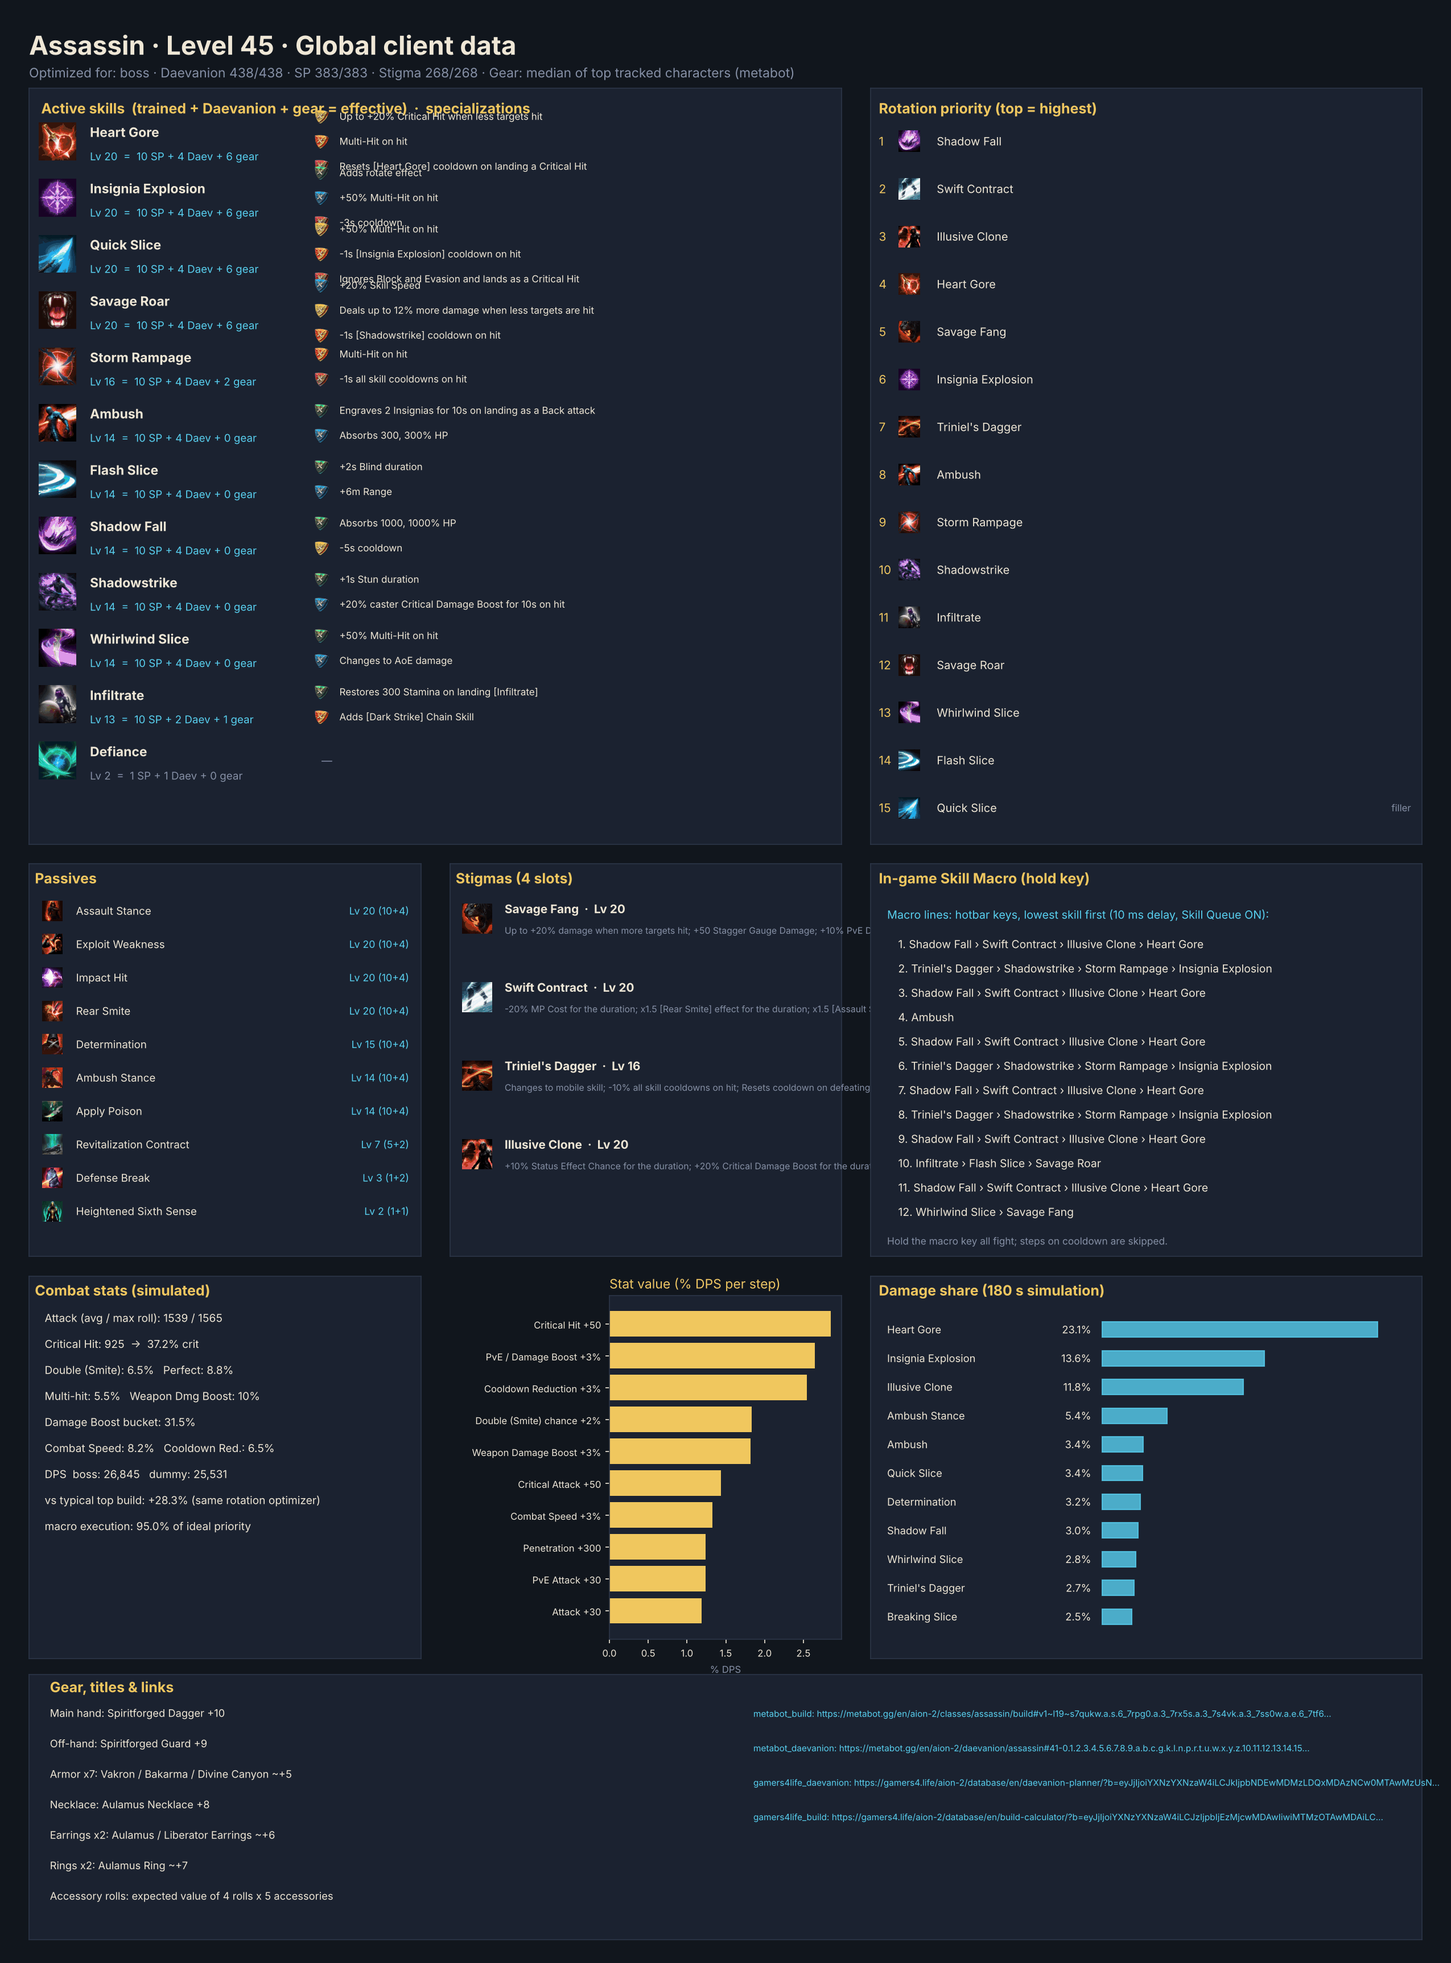
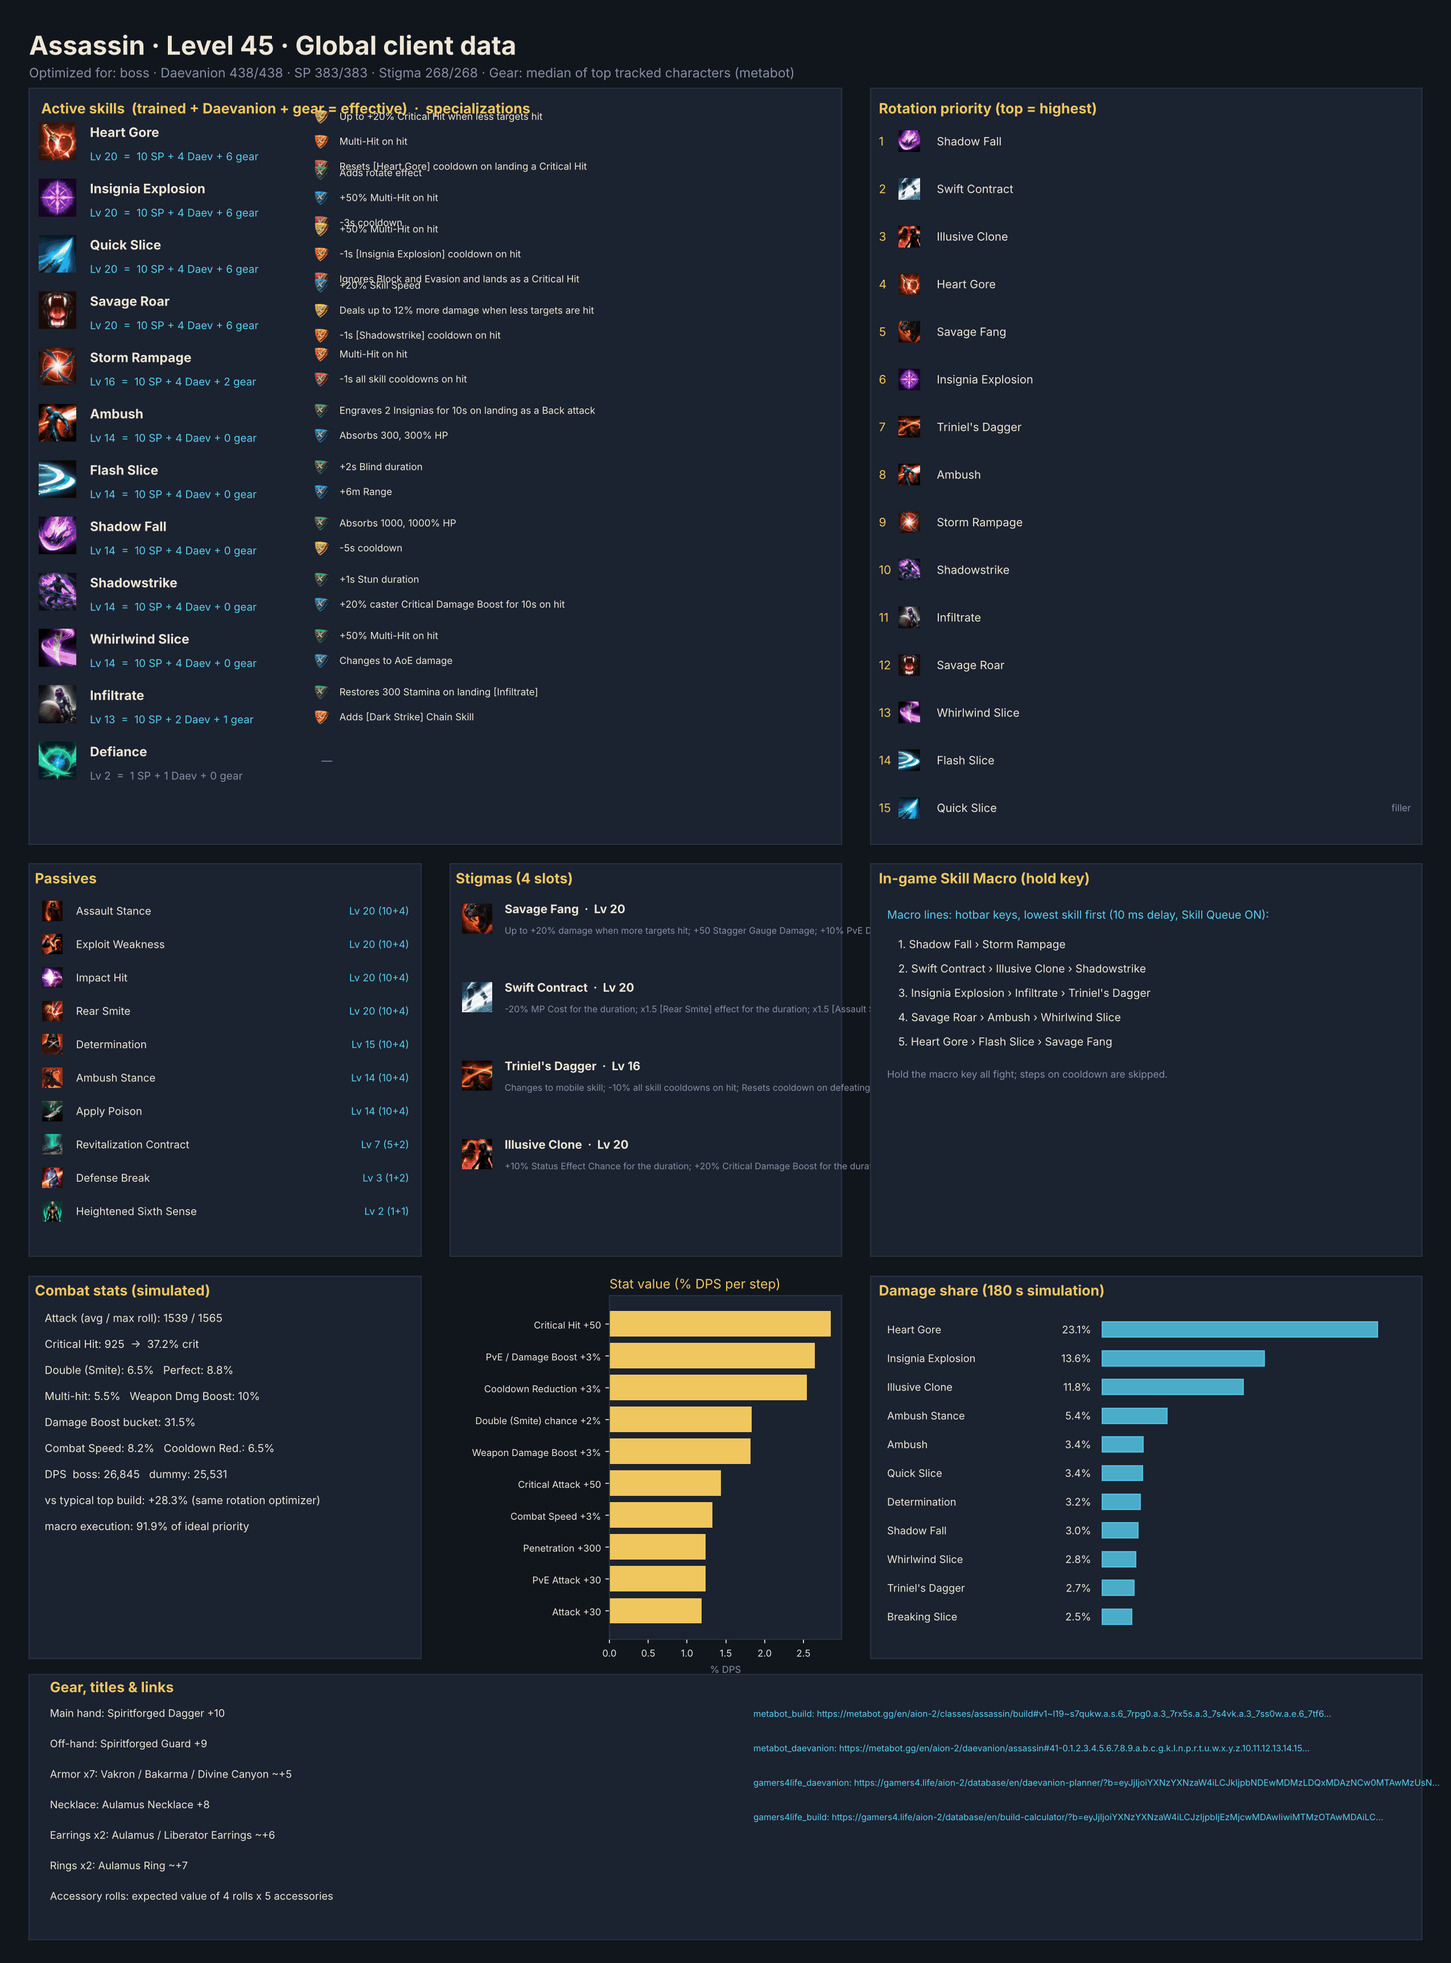
Bundled builds: macros planned again with each key on one line (Assassin to Templar)
`python -m aion2calc render` re-plans a saved macro of an older model: the Assassin's,
Chanter's, Cleric's, Gladiator's, Ranger's and Templar's PvE presets now have each hotbar key on
one macro line. Only their macro sections and build cards change (the README roll lists keep
Block out). The PvP presets store no macro and are left as they are.

Claude-Session: https://claude.ai/code/session_01AC4afGrRJWCPN4E49PZ7UU

Changed region(s): [[0.6196, 0.4652, 0.8365, 0.6203], [0.031, 0.2481, 0.062, 0.2791]]

diff --git a/results/compare/assassin/README.md b/results/compare/assassin/README.md
@@ -50,28 +50,21 @@ Use the highest skill that is ready; the last entry is the filler.
 
 **Left mouse button** is the basic auto-attack: `quick_slice`. Hold it for continuous attacks; the Skill Macro below goes on the **right mouse button** (or another held key). Weave both together.
 
-Each line is a hotbar key: put its skills on that key in the order listed, the first lowest (a key holds up to four). The macro casts a key's skills from first to last, skipping any that cannot be cast, then moves to the next line. Then Settings → Key Settings → General → Skill Macro: add the keys as macro lines from top to bottom, a key listed twice added twice. Skill Queue (스킬 예약) **ON**, 10 ms delay on every line, hold the macro key; manual presses always take priority over the macro. A skill's key presses its chain step while the chain is open, in the macro too.
+Each line is a hotbar key: put its skills on that key in the order listed, the first lowest (a key holds up to four). The macro casts a key's skills from first to last, skipping any that cannot be cast, then moves to the next line. Then Settings → Key Settings → General → Skill Macro: add the keys as macro lines from top to bottom, each once: held, the macro cycles through them. Skill Queue (스킬 예약) **ON**, 10 ms delay on every line, hold the macro key; manual presses always take priority over the macro. A skill's key presses its chain step while the chain is open, in the macro too.
 
 | Line | Hotbar key holds (cast in this order) |
 |---:|---|
-| 1 | shadow_fall › swift › illusive_clone › heart_gore |
-| 2 | triniel › shadowstrike › storm_rampage › insignia_explosion |
-| 3 | shadow_fall › swift › illusive_clone › heart_gore |
-| 4 | ambush |
-| 5 | shadow_fall › swift › illusive_clone › heart_gore |
-| 6 | triniel › shadowstrike › storm_rampage › insignia_explosion |
-| 7 | shadow_fall › swift › illusive_clone › heart_gore |
-| 8 | triniel › shadowstrike › storm_rampage › insignia_explosion |
-| 9 | shadow_fall › swift › illusive_clone › heart_gore |
-| 10 | infiltrate › flash_slice › savage_roar |
-| 11 | shadow_fall › swift › illusive_clone › heart_gore |
-| 12 | whirlwind_slice › sfang |
+| 1 | shadow_fall › storm_rampage |
+| 2 | swift › illusive_clone › shadowstrike |
+| 3 | insignia_explosion › infiltrate › triniel |
+| 4 | savage_roar › ambush › whirlwind_slice |
+| 5 | heart_gore › flash_slice › sfang |
 
 Manual keys (press on cooldown, in this priority): none — hold the macro key for the whole fight
 
-Simulated: this layout reaches **95.0%** of the ideal priority list.
+Simulated: this layout reaches **91.9%** of the ideal priority list.
 
-**Alternative — one skill per macro line**: macro shadow_fall → heart_gore → insignia_explosion → ambush → storm_rampage → shadowstrike → infiltrate → savage_roar → whirlwind_slice → flash_slice → quick_slice; manual: swift, illusive_clone, sfang, triniel. Simulated: **81.3%** of the ideal priority list.
+**Alternative — one skill per macro line**: macro shadow_fall → heart_gore → insignia_explosion → ambush → storm_rampage → shadowstrike → infiltrate → savage_roar → whirlwind_slice → flash_slice → quick_slice; manual: swift, illusive_clone, sfang, triniel. Simulated: **81.6%** of the ideal priority list.
 
 ### Opener (first 30 s of the simulated fight)
 

diff --git a/results/compare/chanter/README.md b/results/compare/chanter/README.md
@@ -48,25 +48,17 @@ Use the highest skill that is ready; the last entry is the filler.
 
 **Left mouse button** is the basic auto-attack: `onslaught`. Hold it for continuous attacks; the Skill Macro below goes on the **right mouse button** (or another held key). Weave both together.
 
-Each line is a hotbar key: put its skills on that key in the order listed, the first lowest (a key holds up to four). The macro casts a key's skills from first to last, skipping any that cannot be cast, then moves to the next line. Then Settings → Key Settings → General → Skill Macro: add the keys as macro lines from top to bottom, a key listed twice added twice. Skill Queue (스킬 예약) **ON**, 10 ms delay on every line, hold the macro key; manual presses always take priority over the macro. A skill's key presses its chain step while the chain is open, in the macro too.
+Each line is a hotbar key: put its skills on that key in the order listed, the first lowest (a key holds up to four). The macro casts a key's skills from first to last, skipping any that cannot be cast, then moves to the next line. Then Settings → Key Settings → General → Skill Macro: add the keys as macro lines from top to bottom, each once: held, the macro cycles through them. Skill Queue (스킬 예약) **ON**, 10 ms delay on every line, hold the macro key; manual presses always take priority over the macro. A skill's key presses its chain step while the chain is open, in the macro too.
 
 | Line | Hotbar key holds (cast in this order) |
 |---:|---|
-| 1 | undefeated › spinning_strike › marchutan › dark_crush |
-| 2 | stormpower › impactful_crush |
-| 3 | undefeated › spinning_strike › marchutan › dark_crush |
-| 4 | incandescent_blow › wave_blow › gust_rampage |
-| 5 | rushing_smash |
-| 6 | tremor_crush › heat_wave_blow |
-| 7 | undefeated › spinning_strike › marchutan › dark_crush |
-| 8 | stormpower › impactful_crush |
-| 9 | undefeated › spinning_strike › marchutan › dark_crush |
-| 10 | stormpower › impactful_crush |
-| 11 | rushing_smash |
+| 1 | undefeated › stormpower › spinning_strike › marchutan |
+| 2 | gust_rampage › dark_crush › heat_wave_blow › rushing_smash |
+| 3 | incandescent_blow › impactful_crush › wave_blow › tremor_crush |
 
 Manual keys (press on cooldown, in this priority): none — hold the macro key for the whole fight
 
-Simulated: this layout reaches **85.5%** of the ideal priority list.
+Simulated: this layout reaches **78.4%** of the ideal priority list.
 
 **Alternative — one skill per macro line**: macro impactful_crush → wave_blow → rushing_smash → tremor_crush → gust_rampage → heat_wave_blow → onslaught; manual: undefeated, dark_crush, stormpower, spinning_strike, marchutan, incandescent_blow. Simulated: **94.4%** of the ideal priority list.
 

diff --git a/results/compare/gladiator/README.md b/results/compare/gladiator/README.md
@@ -51,22 +51,18 @@ Use the highest skill that is ready; the last entry is the filler.
 
 **Left mouse button** is the basic auto-attack: `keen_strike`. Hold it for continuous attacks; the Skill Macro below goes on the **right mouse button** (or another held key). Weave both together.
 
-Each line is a hotbar key: put its skills on that key in the order listed, the first lowest (a key holds up to four). The macro casts a key's skills from first to last, skipping any that cannot be cast, then moves to the next line. Then Settings → Key Settings → General → Skill Macro: add the keys as macro lines from top to bottom, a key listed twice added twice. Skill Queue (스킬 예약) **ON**, 10 ms delay on every line, hold the macro key; manual presses always take priority over the macro. A skill's key presses its chain step while the chain is open, in the macro too.
+Each line is a hotbar key: put its skills on that key in the order listed, the first lowest (a key holds up to four). The macro casts a key's skills from first to last, skipping any that cannot be cast, then moves to the next line. Then Settings → Key Settings → General → Skill Macro: add the keys as macro lines from top to bottom, each once: held, the macro cycles through them. Skill Queue (스킬 예약) **ON**, 10 ms delay on every line, hold the macro key; manual presses always take priority over the macro. A skill's key presses its chain step while the chain is open, in the macro too.
 
 | Line | Hotbar key holds (cast in this order) |
 |---:|---|
-| 1 | sword_aura_rampage › mocking_blade |
-| 2 | lunge › rage › overhead_slam › leaping_slam |
-| 3 | rending_blow › zikel › ruinous_blow |
-| 4 | lunge › rage › overhead_slam › leaping_slam |
-| 5 | aerial_snare › crushing_wave |
-| 6 | sword_aura_rampage › mocking_blade |
-| 7 | lunge › rage › overhead_slam › leaping_slam |
-| 8 | rush_strike › ankle_slice › forcedrest |
+| 1 | rage › leaping_slam › aerial_snare › zikel |
+| 2 | rush_strike › lunge › overhead_slam › ruinous_blow |
+| 3 | ankle_slice › rending_blow |
+| 4 | mocking_blade › sword_aura_rampage › forcedrest › crushing_wave |
 
 Manual keys (press on cooldown, in this priority): none — hold the macro key for the whole fight
 
-Simulated: this layout reaches **90.8%** of the ideal priority list.
+Simulated: this layout reaches **83.0%** of the ideal priority list.
 
 **Alternative — one skill per macro line**: macro leaping_slam → rage → overhead_slam → aerial_snare → forcedrest → zikel → ruinous_blow → rush_strike → ankle_slice → lunge → mocking_blade → rending_blow → crushing_wave → keen_strike → sword_aura_rampage. Simulated: **70.9%** of the ideal priority list.
 

diff --git a/results/compare/templar/README.md b/results/compare/templar/README.md
@@ -50,20 +50,17 @@ Use the highest skill that is ready; the last entry is the filler.
 
 **Left mouse button** is the basic auto-attack: `vicious_strike`. Hold it for continuous attacks; the Skill Macro below goes on the **right mouse button** (or another held key). Weave both together.
 
-Each line is a hotbar key: put its skills on that key in the order listed, the first lowest (a key holds up to four). The macro casts a key's skills from first to last, skipping any that cannot be cast, then moves to the next line. Then Settings → Key Settings → General → Skill Macro: add the keys as macro lines from top to bottom, a key listed twice added twice. Skill Queue (스킬 예약) **ON**, 10 ms delay on every line, hold the macro key; manual presses always take priority over the macro. A skill's key presses its chain step while the chain is open, in the macro too.
+Each line is a hotbar key: put its skills on that key in the order listed, the first lowest (a key holds up to four). The macro casts a key's skills from first to last, skipping any that cannot be cast, then moves to the next line. Then Settings → Key Settings → General → Skill Macro: add the keys as macro lines from top to bottom, each once: held, the macro cycles through them. Skill Queue (스킬 예약) **ON**, 10 ms delay on every line, hold the macro key; manual presses always take priority over the macro. A skill's key presses its chain step while the chain is open, in the macro too.
 
 | Line | Hotbar key holds (cast in this order) |
 |---:|---|
-| 1 | judgment › taunt › noble |
-| 2 | elp › shield_rush › annihilate › warding_strike |
-| 3 | judgment › taunt › noble |
-| 4 | elp › shield_rush › annihilate › warding_strike |
-| 5 | judgment › taunt › noble |
-| 6 | poach › debilitating_smash › shield_smite › doom |
+| 1 | elp › noble › poach › taunt |
+| 2 | shield_smite › shield_rush › warding_strike |
+| 3 | judgment › debilitating_smash › annihilate › doom |
 
 Manual keys (press on cooldown, in this priority): punishment
 
-Simulated: this layout reaches **93.2%** of the ideal priority list.
+Simulated: this layout reaches **92.1%** of the ideal priority list.
 
 **Alternative — one skill per macro line**: macro shield_smite → annihilate → pummel → poach → debilitating_smash → vicious_strike; manual: noble, taunt, elp, judgment, punishment, shield_rush, doom, warding_strike. Simulated: **95.8%** of the ideal priority list.
 

diff --git a/results/compare/cleric/README.md b/results/compare/cleric/README.md
@@ -46,19 +46,17 @@ Use the highest skill that is ready; the last entry is the filler.
 
 **Left mouse button** is the basic auto-attack: `earths_retribution`. Hold it for continuous attacks; the Skill Macro below goes on the **right mouse button** (or another held key). Weave both together.
 
-Each line is a hotbar key: put its skills on that key in the order listed, the first lowest (a key holds up to four). The macro casts a key's skills from first to last, skipping any that cannot be cast, then moves to the next line. Then Settings → Key Settings → General → Skill Macro: add the keys as macro lines from top to bottom, a key listed twice added twice. Skill Queue (스킬 예약) **ON**, 10 ms delay on every line, hold the macro key; manual presses always take priority over the macro. A skill's key presses its chain step while the chain is open, in the macro too.
+Each line is a hotbar key: put its skills on that key in the order listed, the first lowest (a key holds up to four). The macro casts a key's skills from first to last, skipping any that cannot be cast, then moves to the next line. Then Settings → Key Settings → General → Skill Macro: add the keys as macro lines from top to bottom, each once: held, the macro cycles through them. Skill Queue (스킬 예약) **ON**, 10 ms delay on every line, hold the macro key; manual presses always take priority over the macro. A skill's key presses its chain step while the chain is open, in the macro too.
 
 | Line | Hotbar key holds (cast in this order) |
 |---:|---|
-| 1 | condemnation › lightning_strike_scattershot › divine_aura |
-| 2 | epunish › prayamp |
-| 3 | condemnation › lightning_strike_scattershot › divine_aura |
-| 4 | epunish › prayamp |
-| 5 | powerburst › debilitating_mark › chain_of_torment |
+| 1 | epunish › condemnation › divine_aura |
+| 2 | chain_of_torment › lightning_strike_scattershot › prayamp |
+| 3 | powerburst › debilitating_mark |
 
 Manual keys (press on cooldown, in this priority): bolt
 
-Simulated: this layout reaches **91.3%** of the ideal priority list.
+Simulated: this layout reaches **90.8%** of the ideal priority list.
 
 **Alternative — one skill per macro line**: macro lightning_strike_scattershot → debilitating_mark → divine_aura → chain_of_torment → condemnation → earths_retribution; manual: prayamp, epunish, powerburst, bolt. Simulated: **71.8%** of the ideal priority list.
 

diff --git a/results/compare/ranger/README.md b/results/compare/ranger/README.md
@@ -48,14 +48,14 @@ Use the highest skill that is ready; the last entry is the filler.
 
 **Left mouse button** is the basic auto-attack: `snipe`. Hold it for continuous attacks; the Skill Macro below goes on the **right mouse button** (or another held key). Weave both together.
 
-Each line is a hotbar key: put its skills on that key in the order listed, the first lowest (a key holds up to four). The macro casts a key's skills from first to last, skipping any that cannot be cast, then moves to the next line. Then Settings → Key Settings → General → Skill Macro: add the keys as macro lines from top to bottom, a key listed twice added twice. Skill Queue (스킬 예약) **ON**, 10 ms delay on every line, hold the macro key; manual presses always take priority over the macro. A skill's key presses its chain step while the chain is open, in the macro too.
+Each line is a hotbar key: put its skills on that key in the order listed, the first lowest (a key holds up to four). The macro casts a key's skills from first to last, skipping any that cannot be cast, then moves to the next line. Then Settings → Key Settings → General → Skill Macro: add the keys as macro lines from top to bottom, each once: held, the macro cycles through them. Skill Queue (스킬 예약) **ON**, 10 ms delay on every line, hold the macro key; manual presses always take priority over the macro. A skill's key presses its chain step while the chain is open, in the macro too.
 
 | Line | Hotbar key holds (cast in this order) |
 |---:|---|
-| 1 | gale_arrow › snare_shot › tempest_shot |
-| 2 | vaizel › burst_arrow › drill_dart › marking_shot |
-| 3 | bowbless › suppressing_arrow › ensnaring_trap › explosive |
-| 4 | vaizel › burst_arrow › drill_dart › marking_shot |
+| 1 | drill_dart › marking_shot |
+| 2 | gale_arrow › vaizel › suppressing_arrow |
+| 3 | snare_shot › bowbless › tempest_shot |
+| 4 | burst_arrow › explosive › ensnaring_trap |
 
 Manual keys (press on cooldown, in this priority): deadshot
 
